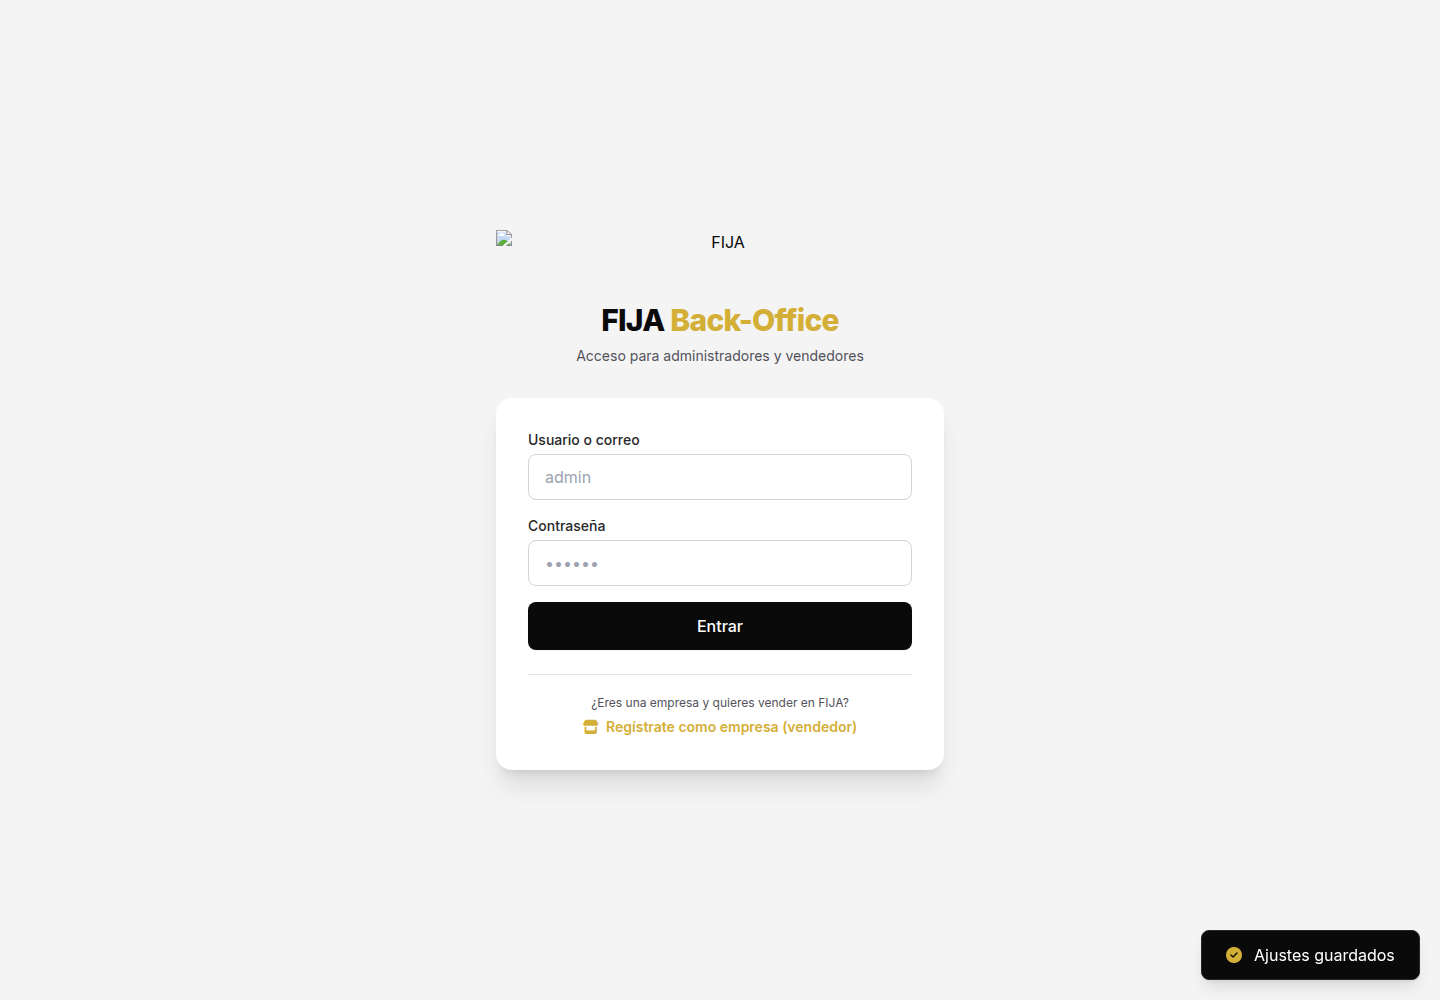
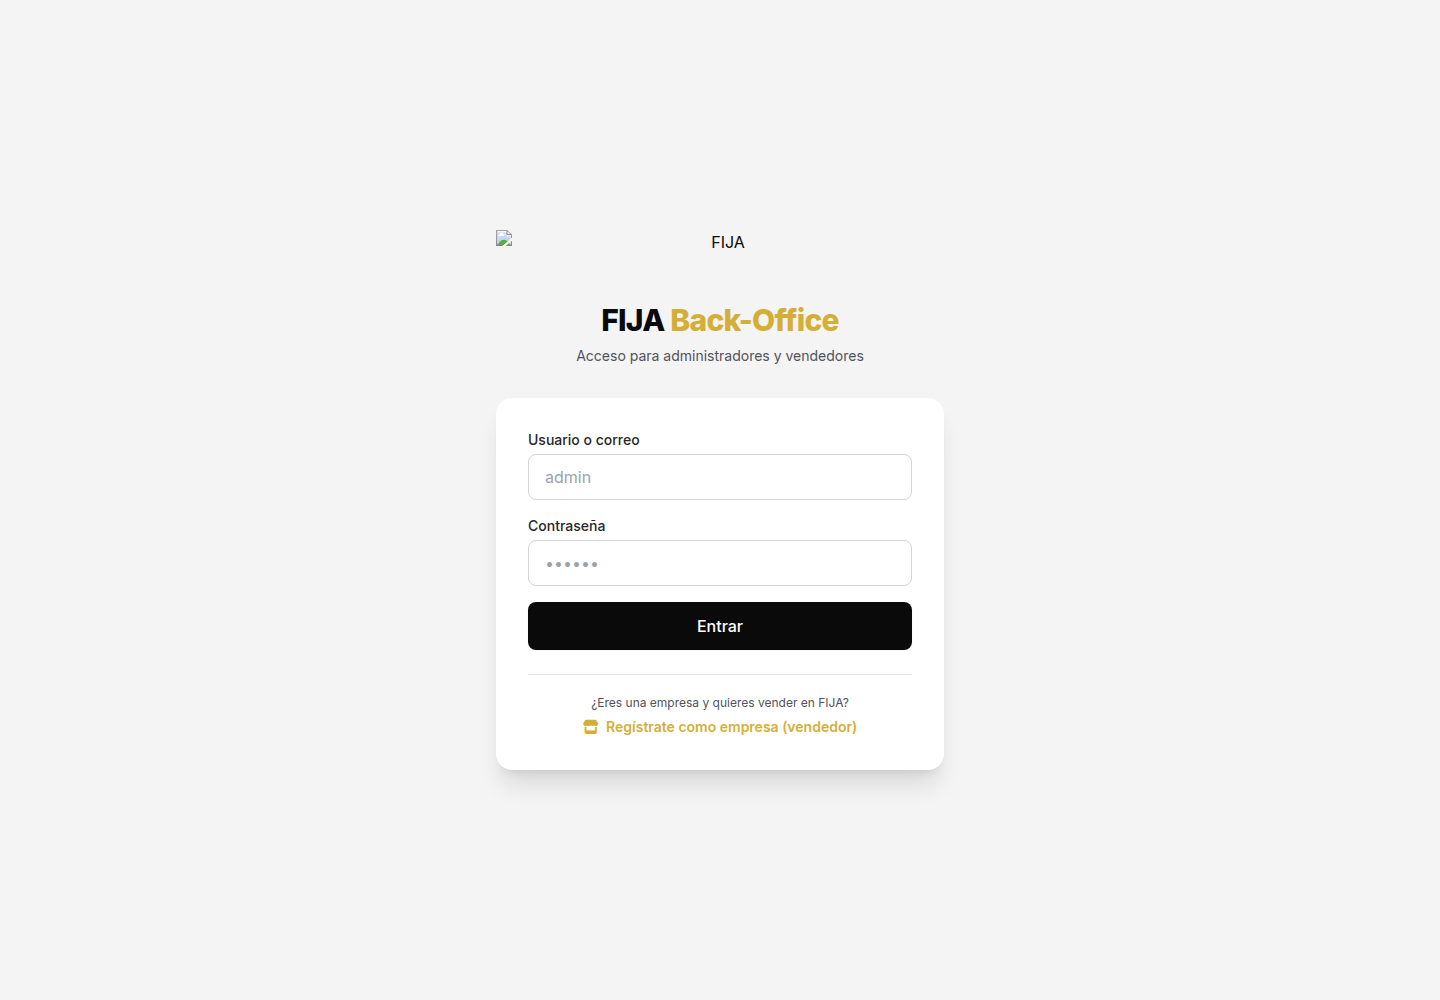
fix(cupones): la tienda usa solo los cupones del back-office (ya no reaparecen los de fabrica) + se retiran al borrarlos/desactivarlos sin recargar

Changed region(s): [[0.8125, 0.93, 1.0, 0.992]]

diff --git a/index.html b/index.html
@@ -3722,21 +3722,41 @@
                     state.profile = state.profiles.find(p => p.userId === state.session.userId) || null;
                 }
                 updateNavUI();
+                // Hidrata cupones y ajustes ANTES de pintar: así no se muestran un instante
+                // cupones antiguos o de fábrica que el dueño ya ha borrado en el back-office.
+                await hydrateCloudConfig();
                 renderStorefront();
                 if (state.currentView === 'cart') renderCart();
                 if (state.currentView === 'user-dashboard') renderUserDashboard();
-                // Hidrata cupones y ajustes desde la misma fuente que el back-office
-                hydrateCloudConfig();
                 // Firma inicial para que la primera re-sincronización no re-pinte de más.
                 _syncSig = cloudDataSig(state.products, state.orders, state.profiles);
             } catch (e) { console.error('loadAll', e); }
         }
         // Descarga cupones/ajustes (creados en el back-office) y los deja en localStorage
+        // Si el back-office cambia los cupones, la tienda se actualiza sin recargar:
+        // retira el cupón aplicado si ya no existe y repinta la franja de cupones / la cesta.
+        function onCouponsChanged() {
+            const promos = getPromos();
+            if (state.promo && !promos[state.promo.code]) {
+                state.promo = null;
+                showToast('El cupón que tenías aplicado ya no está disponible', true);
+            }
+            try { renderPromosStrip(); } catch (e) {}
+            try { if (state.currentView === 'cart') renderCart(); } catch (e) {}
+        }
         async function hydrateCloudConfig() {
             try {
                 const [cp, st] = await Promise.all([readDataFile('coupons'), readDataFile('settings')]);
-                if (cp && cp.data && !Array.isArray(cp.data) && Object.keys(cp.data).length) {
-                    localStorage.setItem('fija_coupons', JSON.stringify(cp.data));
+                // La copia del back-office sustituye SIEMPRE a la local, incluso si viene vacía
+                // (así un cupón borrado en el back-office deja de mostrarse en la tienda).
+                if (cp && cp.data && typeof cp.data === 'object' && !Array.isArray(cp.data)) {
+                    const next = JSON.stringify(cp.data);
+                    let prev = null;
+                    try { prev = localStorage.getItem('fija_coupons'); } catch (e) {}
+                    if (prev !== next) {
+                        try { localStorage.setItem('fija_coupons', next); } catch (e) {}
+                        if (prev !== null) onCouponsChanged();
+                    }
                 }
                 if (st && st.data && !Array.isArray(st.data) && Object.keys(st.data).length) {
                     localStorage.setItem('fija_settings', JSON.stringify(st.data));
@@ -4655,7 +4675,7 @@
         window.openPaymentGateway = () => {
             if (state.cart.length === 0) { showToast("Tu cesta está vacía", true); return; }
             if (!state.session || !state.profile) { showToast("Inicia sesión para finalizar la compra", true); openAuthModal(); return; }
-            if (state.promo && isCouponUsed(state.promo.code)) { state.promo = null; showToast('El cupón aplicado ya se había usado', true); }
+            if (state.promo && (!getPromos()[state.promo.code] || isCouponUsed(state.promo.code))) { state.promo = null; showToast('El cupón aplicado ya no está disponible', true); }
             if (!state.payMethod) state.payMethod = 'Tarjeta';
             goPage({ type: 'payment' });
         };
@@ -4689,8 +4709,9 @@
             // Cupón de descuento (un solo uso por cuenta): reduce lo que paga el cliente,
             // la tienda sigue cobrando su precio marcado (el coste lo asume FIJA).
             // Validación final: si esta cuenta ya usó el cupón, no se aplica el descuento.
-            const promo = (state.promo && state.promo.type === 'pct' && !isCouponUsed(state.promo.code)) ? state.promo : null;
-            if (state.promo && !promo) showToast('El cupón ya se había usado: no se aplicará el descuento', true);
+            const promoValid = !!(state.promo && getPromos()[state.promo.code]);
+            const promo = (state.promo && promoValid && state.promo.type === 'pct' && !isCouponUsed(state.promo.code)) ? state.promo : null;
+            if (state.promo && !promo) showToast(promoValid ? 'El cupón ya se había usado: no se aplicará el descuento' : 'El cupón ya no está disponible: no se aplicará el descuento', true);
             const couponCode = promo ? promo.code : null;
             const couponPercent = promo ? promo.value : 0;
             const couponDiscount = couponCode ? +(items.reduce((s, it) => s + it.paid, 0) * couponPercent / 100).toFixed(2) : 0;
@@ -5173,6 +5194,10 @@
                 });
             }
             if (gridSection) gridSection.classList.remove('hide');
+            // La franja de cupones la manda renderPromosStrip: el bucle de arriba la
+            // des-ocultaba aunque el back-office no tuviera ningún cupón activo.
+            const promoSection = document.getElementById('promos-section');
+            if (promoSection && !Object.keys(getPromos()).length) promoSection.classList.add('hide');
 
             let list = state.products.filter(p => !p.hidden);
             if (state.categoryFilter !== 'all') list = list.filter(p => p.category === state.categoryFilter);
@@ -5655,17 +5680,28 @@
         // ---------- 9. CÓDIGO DE DESCUENTO ----------
         const DEFAULT_PROMOS = { 'FIJA10': { type: 'pct', value: 10, label: '10% de descuento' }, 'BIENVENIDA': { type: 'pct', value: 15, label: '15% en tu primera compra' }, 'ENVIOGRATIS': { type: 'ship', value: 0, label: 'Recogida prioritaria' }, 'FIJA20': { type: 'pct', value: 20, label: '20% de descuento' } };
         // Cupones gestionables desde el back-office (fija_coupons en localStorage / data/coupons.json).
-        // active:false desactiva un código (incluso los de fábrica); el resto se añade al catálogo.
+        // La copia sincronizada es la ÚNICA fuente de verdad: si el dueño borra un cupón en el
+        // back-office desaparece también aquí (antes se volvían a colar los de fábrica y se
+        // seguían mostrando cupones ya eliminados).
         function loadPromos() {
-            let extra = {};
-            try { extra = JSON.parse(localStorage.getItem('fija_coupons') || '{}') || {}; } catch (e) {}
-            const merged = Object.assign({}, DEFAULT_PROMOS);
+            let raw = null, extra = null;
+            try { raw = localStorage.getItem('fija_coupons'); } catch (e) {}
+            try { extra = raw ? JSON.parse(raw) : null; } catch (e) { extra = null; }
+            // Sin ninguna sincronización todavía (primera visita y sin red): catálogo de fábrica.
+            if (!extra || typeof extra !== 'object' || Array.isArray(extra)) return Object.assign({}, DEFAULT_PROMOS);
+            const out = {};
             Object.keys(extra).forEach(code => {
-                const c = extra[code]; if (!c) return;
-                if (c.active === false) delete merged[code];
-                else merged[code] = { type: c.type, value: c.value, label: c.label };
+                const c = extra[code];
+                if (!code || !c || typeof c !== 'object') return;
+                if (c.active === false) return;                         // desactivado en el back-office
+                if (!c.type) return;                                    // registro corrupto
+                out[String(code).trim().toUpperCase()] = {
+                    type: c.type,
+                    value: Number(c.value) || 0,
+                    label: c.label || String(code)
+                };
             });
-            return merged;
+            return out;
         }
         // Se lee en cada uso (no en carga) para reflejar los cupones creados en el back-office
         function getPromos() { return loadPromos(); }
@@ -5695,6 +5731,8 @@
         };
         function promoDiscount(subtotal) {
             if (!state.promo || state.promo.type !== 'pct') return 0;
+            // Un cupón borrado o desactivado en el back-office deja de descontar al instante.
+            if (!getPromos()[state.promo.code]) { state.promo = null; return 0; }
             return +(subtotal * state.promo.value / 100).toFixed(2);
         }
 
@@ -7146,8 +7184,11 @@ Recibes este correo porque compraste en ${escapeHtml(store)} con la cuenta ${esc
         function renderPromosStrip() {
             const el = document.getElementById('promos-strip'); if (!el) return;
             const sec = document.getElementById('promos-section');
+            // Sin cupones vivos (todos borrados/desactivados en el back-office) no se muestra la franja.
+            const promos = Object.entries(getPromos());
+            if (!promos.length) { if (sec) sec.classList.add('hide'); el.innerHTML = ''; return; }
             if (sec) sec.classList.remove('hide');
-            el.innerHTML = Object.entries(getPromos()).map(([code, pr]) => `
+            el.innerHTML = promos.map(([code, pr]) => `
                 <div class="border border-dashed border-fija-gold bg-fija-50/40 rounded-xl p-4 flex items-center gap-3">
                     <i class="fa-solid fa-ticket text-fija-gold text-xl"></i>
                     <div class="flex-1 min-w-0"><p class="font-mono font-black text-fija-900">${code}</p><p class="text-[11px] text-gray-500 truncate">${pr.label}</p></div>
